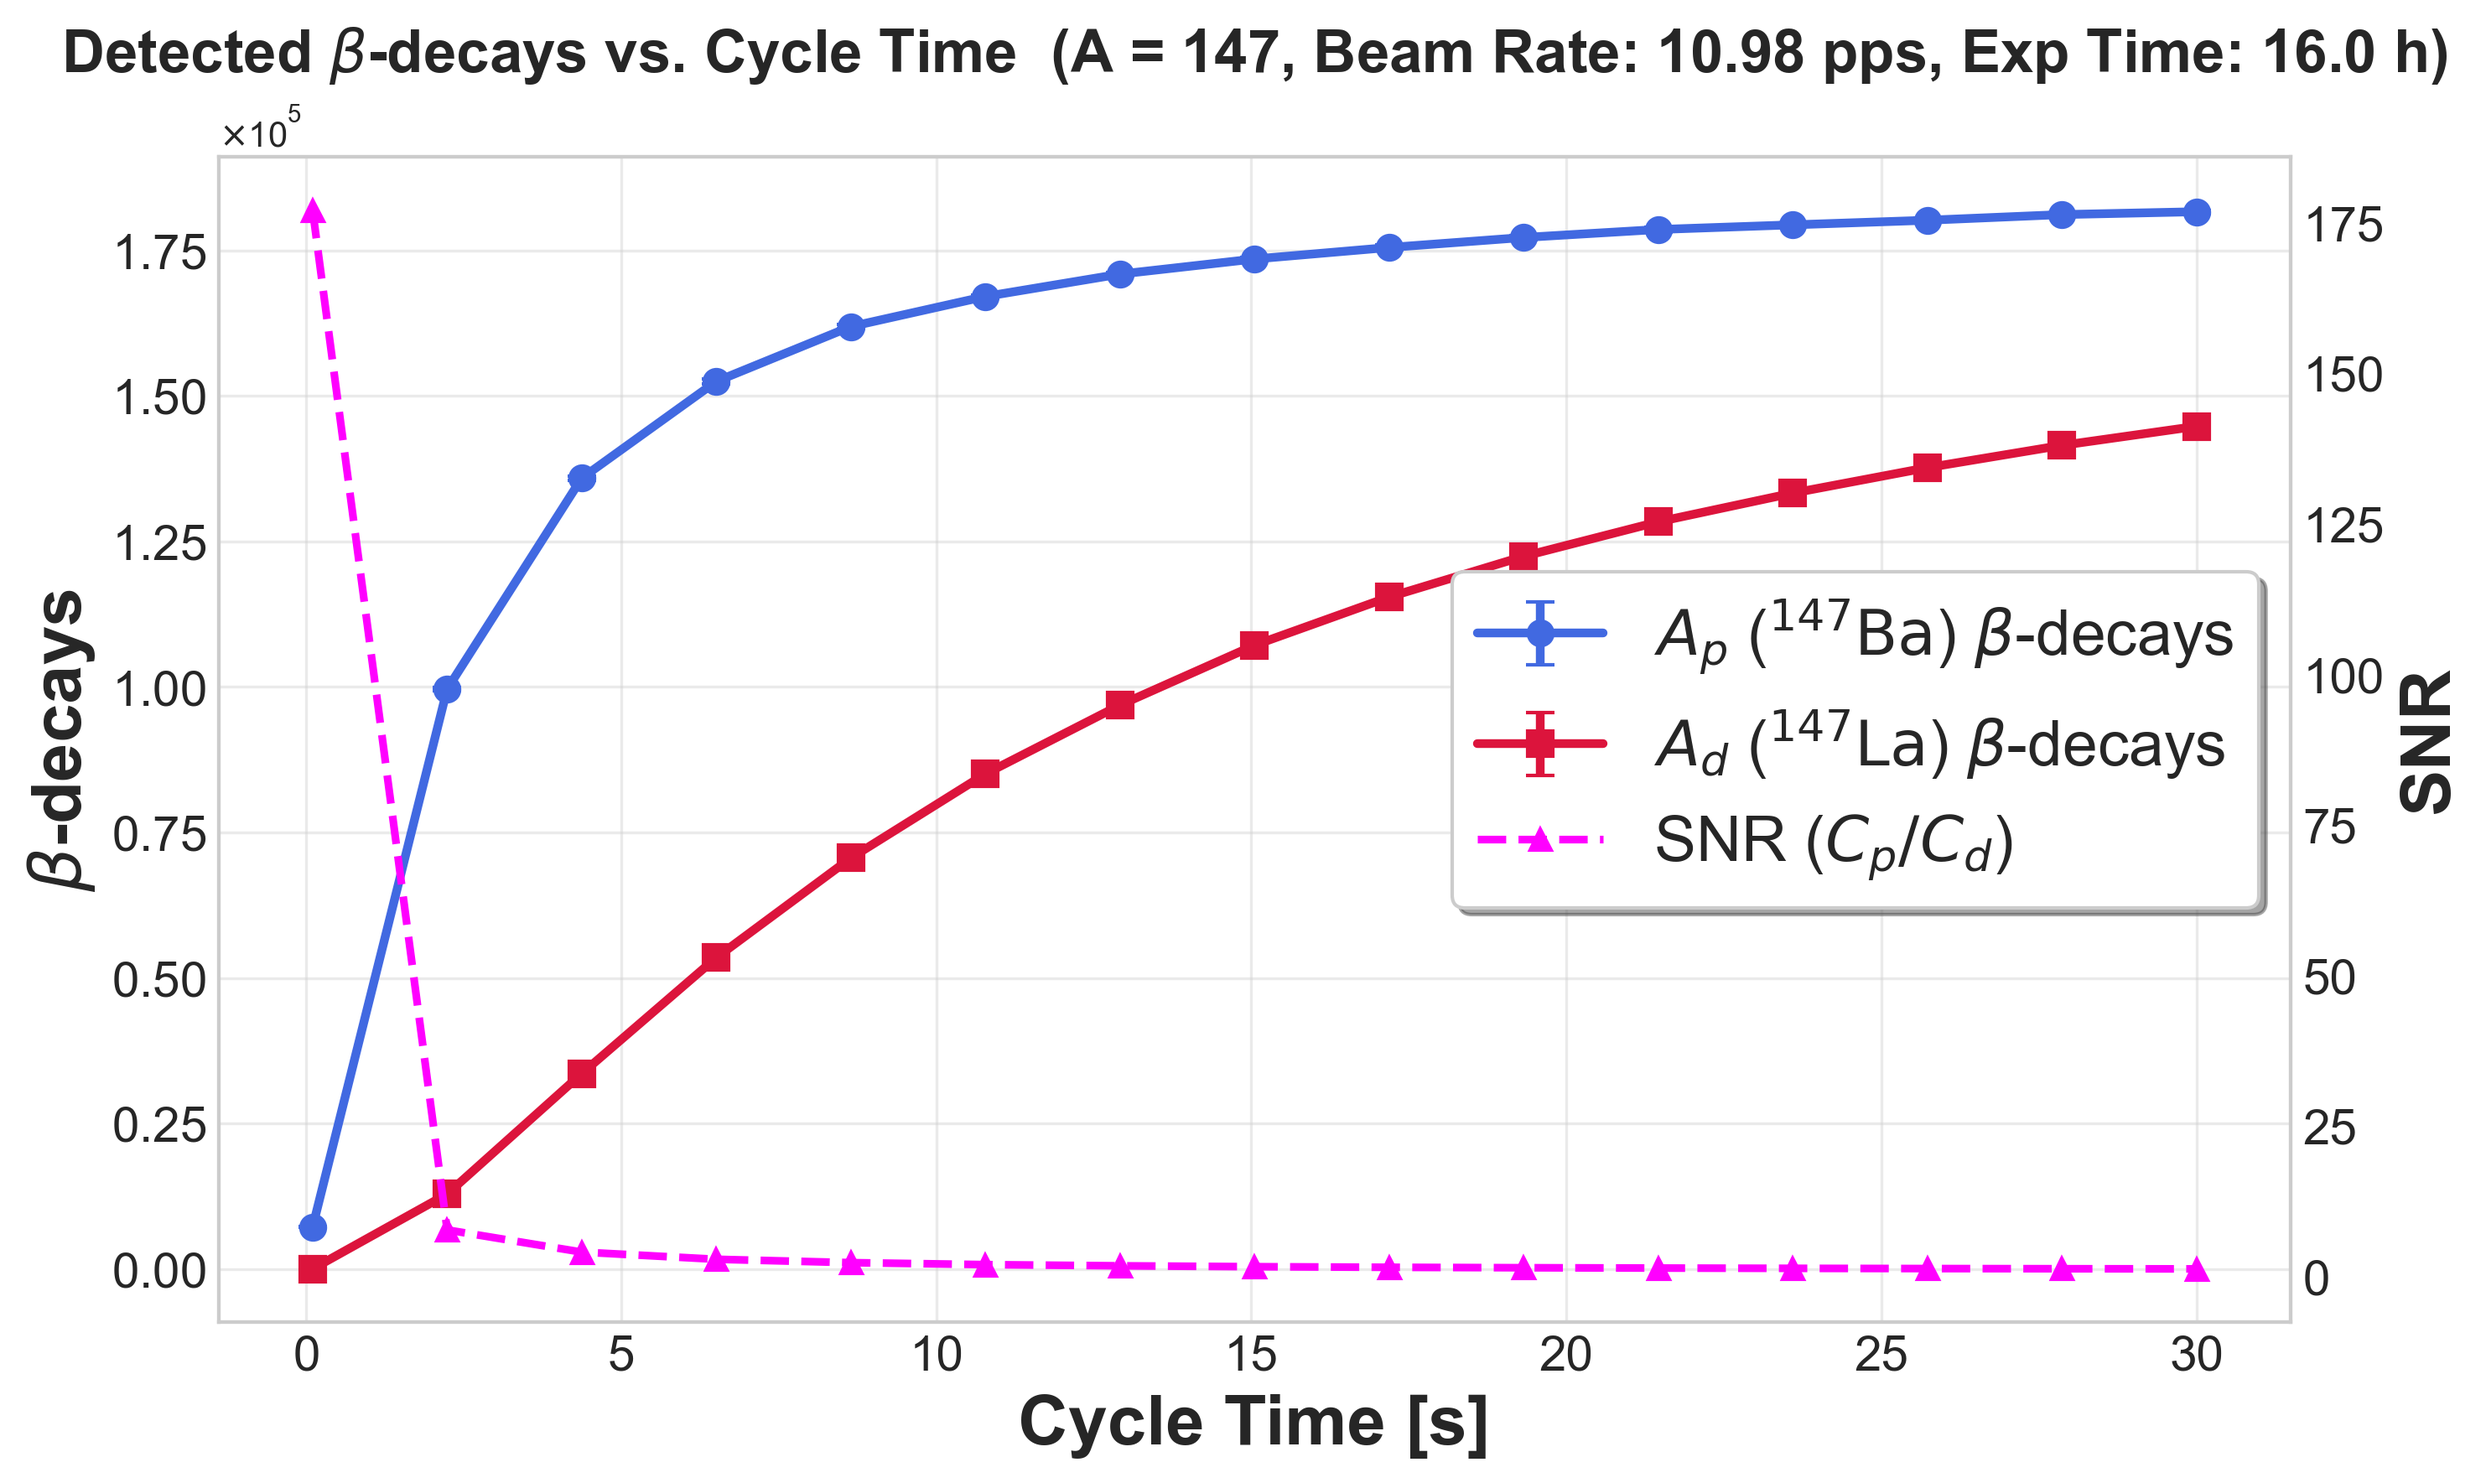
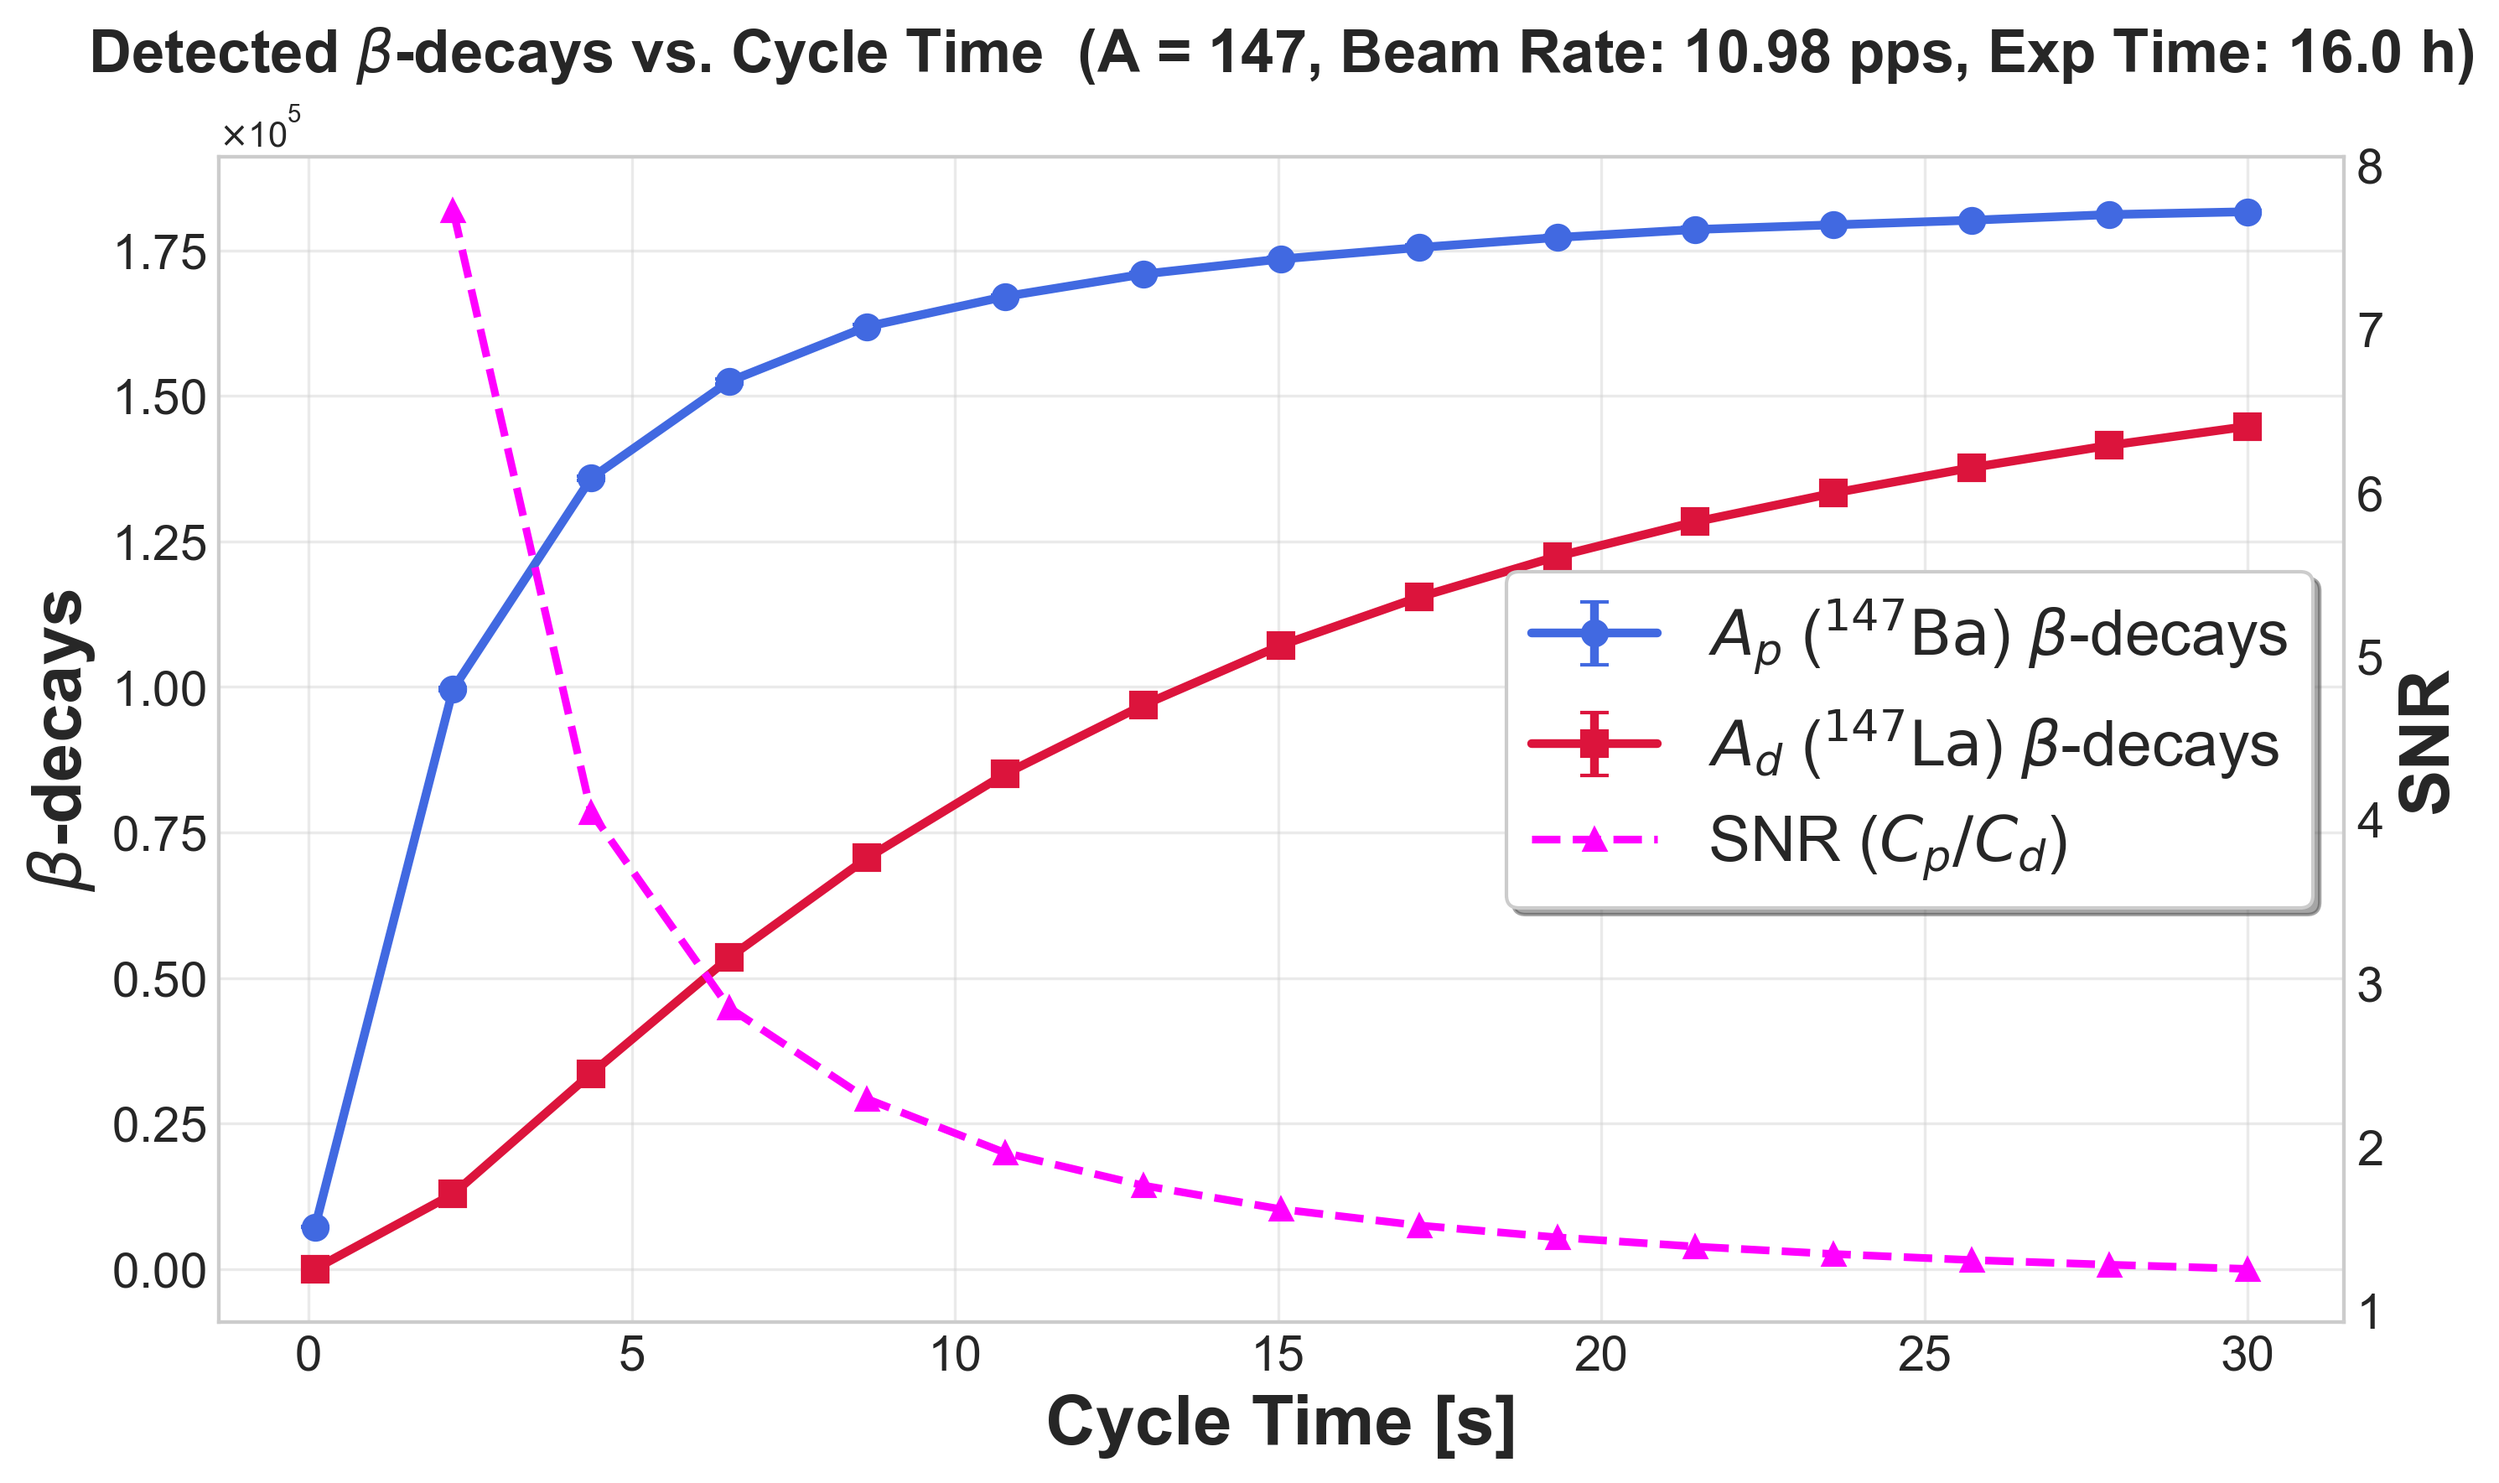
feat: was able to reproduce adriana's results from pure bateman

diff --git a/optimizer/bateman.py b/optimizer/bateman.py
@@ -3,6 +3,7 @@ import numpy as np
 from scipy.integrate import solve_ivp
 
 
+# this one
 def bateman_sys(t, y, R, lam1, lam2) -> [float, float]:
     """
     Takes a the beam pps rate and the decay constants
@@ -17,6 +18,7 @@ def bateman_sys(t, y, R, lam1, lam2) -> [float, float]:
     return [dN1dt, dN2dt]
 
 
+# this one
 def simulate_decay(R, lam1, lam2, t_cycle, t_eval=None):
     """
     Simulates the Bateman chain decay system
@@ -114,11 +116,12 @@ def monte_carlo(sol, lam1, lam2, eff1=1.0, eff2=1.0, n_samples=100):
     }
 
 
+# this one
 def simulate_experiment(sol, lam1, lam2, t_cycle, t_exp, eff1=1.0, eff2=1.0, n_samples=100) -> {}:
     """
-
+    Runs a monte carlo simulation of the provided bateman population dynamics
     """
-    # number of times the tape cycles during the experiment
+    # number of full tape cycles during the experiment
     n_cycles = int(t_exp // t_cycle)
 
     results_parent = np.zeros(n_samples)
@@ -127,24 +130,28 @@ def simulate_experiment(sol, lam1, lam2, t_cycle, t_exp, eff1=1.0, eff2=1.0, n_s
     t = sol.t
     N1, N2 = sol.y
 
+    # make vector of time steps
     dt = np.diff(t)
     dt = np.append(dt, dt[-1])
 
+    # compute vector of activities
     A1 = lam1*N1
     A2 = lam2*N2
 
     for i in range(n_samples):
-
         total_parent_detected = []
         total_daughter_detected = []
 
         for _ in range(n_cycles):
+            # outputs array containing counts corresponding to number of counts in the dt (0s and 1s)
             parent_detected = np.random.poisson(eff1*A1*dt)
             daughter_detected = np.random.poisson(eff2*A2*dt)
 
+            # sum array to get total counts in t_cycle
             total_parent_detected.append(parent_detected.sum())
             total_daughter_detected.append(daughter_detected.sum())
 
+        # total counts over the entire experiment
         results_parent[i] = np.sum(total_parent_detected)
         results_daughter[i] = np.sum(total_daughter_detected)
 
@@ -154,6 +161,7 @@ def simulate_experiment(sol, lam1, lam2, t_cycle, t_exp, eff1=1.0, eff2=1.0, n_s
     }
 
 
+# this one
 def vary_cycle_time(R, lam1, lam2, t_min, t_max, t_exp, eff1=1.0, eff2=1.0, n_samples=100, n_t_cycles_to_test=10):
     """
     Runs the monte carlo simulation with varying cycle times.
@@ -175,6 +183,7 @@ def vary_cycle_time(R, lam1, lam2, t_min, t_max, t_exp, eff1=1.0, eff2=1.0, n_sa
             n_samples=n_samples)
         parent_results.append(sim["parent_counts"])
         daughter_results.append(sim["daughter_counts"])
+        print(f"t_cycle = {t_cycle} Done.")
 
     return {
         "cycle_times": cycle_times,

diff --git a/optimizer/make_plots.py b/optimizer/make_plots.py
@@ -42,7 +42,7 @@ def tape_cycle_plot(t, R, A, A1, A2, N1, N2, integral_A1, integral_A2, snr_vals,
     plt.tight_layout()
     if save is not None:
         plt.savefig(save, dpi=300, bbox_inches="tight")
-        plt.show()
+    plt.show()
 
 
 def plot_vary_cycle_results(results, A, t_exp, rate, parent=None, daughter=None, save=None, csv=False):
@@ -72,7 +72,7 @@ def plot_vary_cycle_results(results, A, t_exp, rate, parent=None, daughter=None,
         daughter_means = np.array([np.mean(arr) for arr in daughter_counts])
         daughter_stds = np.array([np.std(arr) for arr in daughter_counts])
 
-    snr = parent_means/daughter_means
+    snr = parent_means / daughter_means
 
     fig, ax = plt.subplots(figsize=(10, 6))
     parent_label = "Ba"
@@ -120,8 +120,8 @@ def plot_vary_cycle_results(results, A, t_exp, rate, parent=None, daughter=None,
     ax_snr = ax.twinx()
 
     ax_snr.plot(
-        cycle_times,
-        snr,
+        cycle_times[1:],
+        snr[1:],
         linestyle="--",
         color="magenta",
         marker="^",

diff --git a/optimizer/bateman_v2.py b/optimizer/bateman_v2.py
@@ -1,0 +1,38 @@
+import numpy as np
+
+from scipy.integrate import solve_ivp
+
+
+# this one
+def bateman_sys(t, y, R, lam1, lam2) -> [float, float]:
+    """
+    Takes a the beam pps rate and the decay constants
+    for a parent and daughter nucleus.
+
+    Returns the activties for the two nuclei.
+    """
+    N1, N2 = y
+    dN1dt = R - lam1*N1
+    dN2dt = lam1*N1 - lam2*N2
+
+    return [dN1dt, dN2dt]
+
+
+# this one
+def simulate_decay(R, lam1, lam2, t_cycle, t_eval=None):
+    """
+    Simulates the Bateman chain decay system
+    """
+
+    y0 = [0, 0]  # zero initial conditions
+
+    t_span = (0, t_cycle)
+
+    # if not evaluating at a specific time
+    if t_eval is None:
+        t_eval = np.linspace(0, t_cycle, 1000)
+
+    sol = solve_ivp(bateman_sys, t_span, y0, args=(
+        R, lam1, lam2), t_eval=t_eval, method="RK45")
+
+    return sol

diff --git a/optimizer/scripts/run_bateman.py b/optimizer/scripts/run_bateman.py
@@ -9,8 +9,8 @@ app = typer.Typer()
 
 
 @app.command()
-def tape(time: float = 3,
-         rate: float = 3,
+def tape(time: float = 57600,
+         rate: float = 10.98,
          tp: float = 0.894,
          td: float = 4.06,
          A: int = 147,
